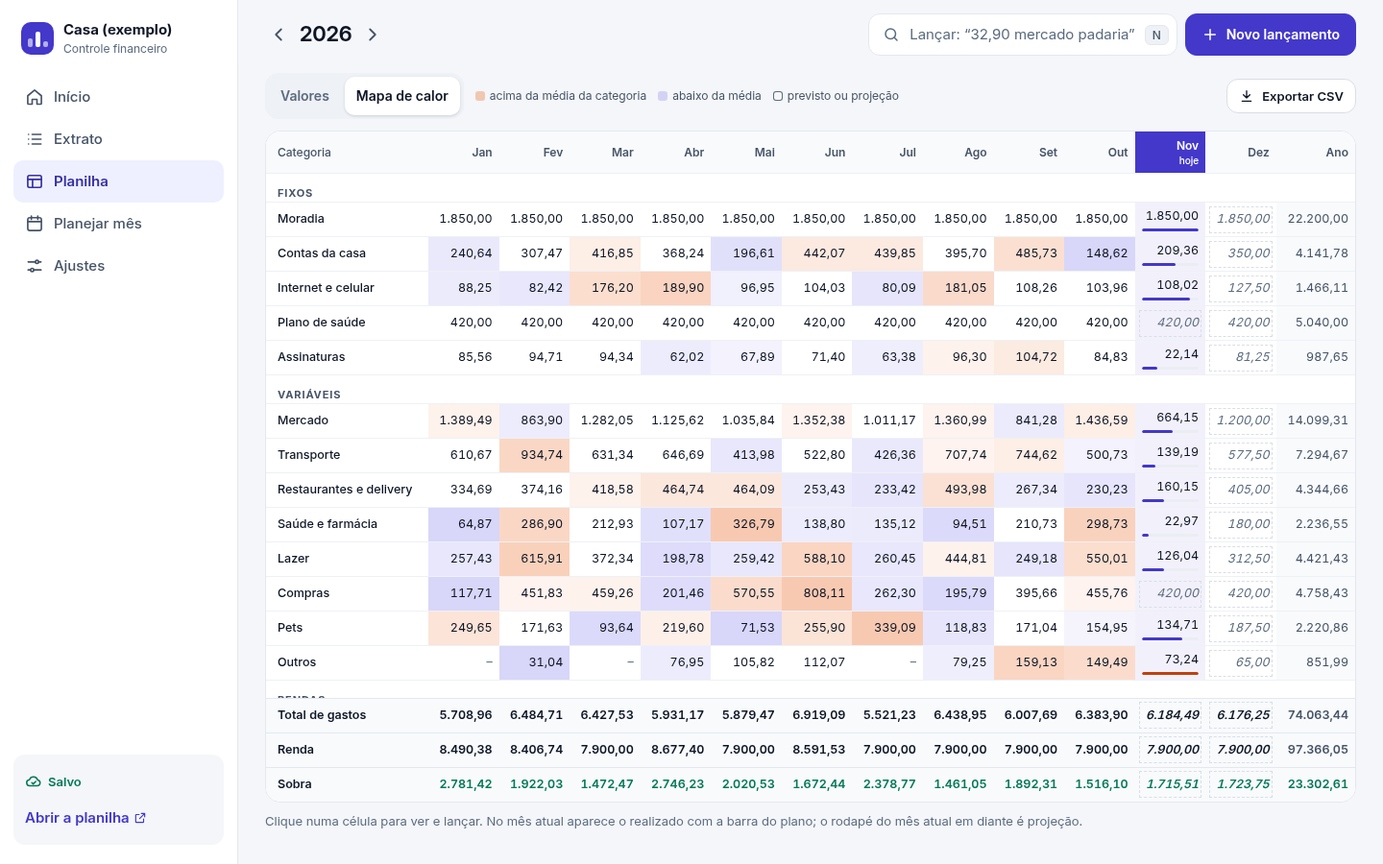
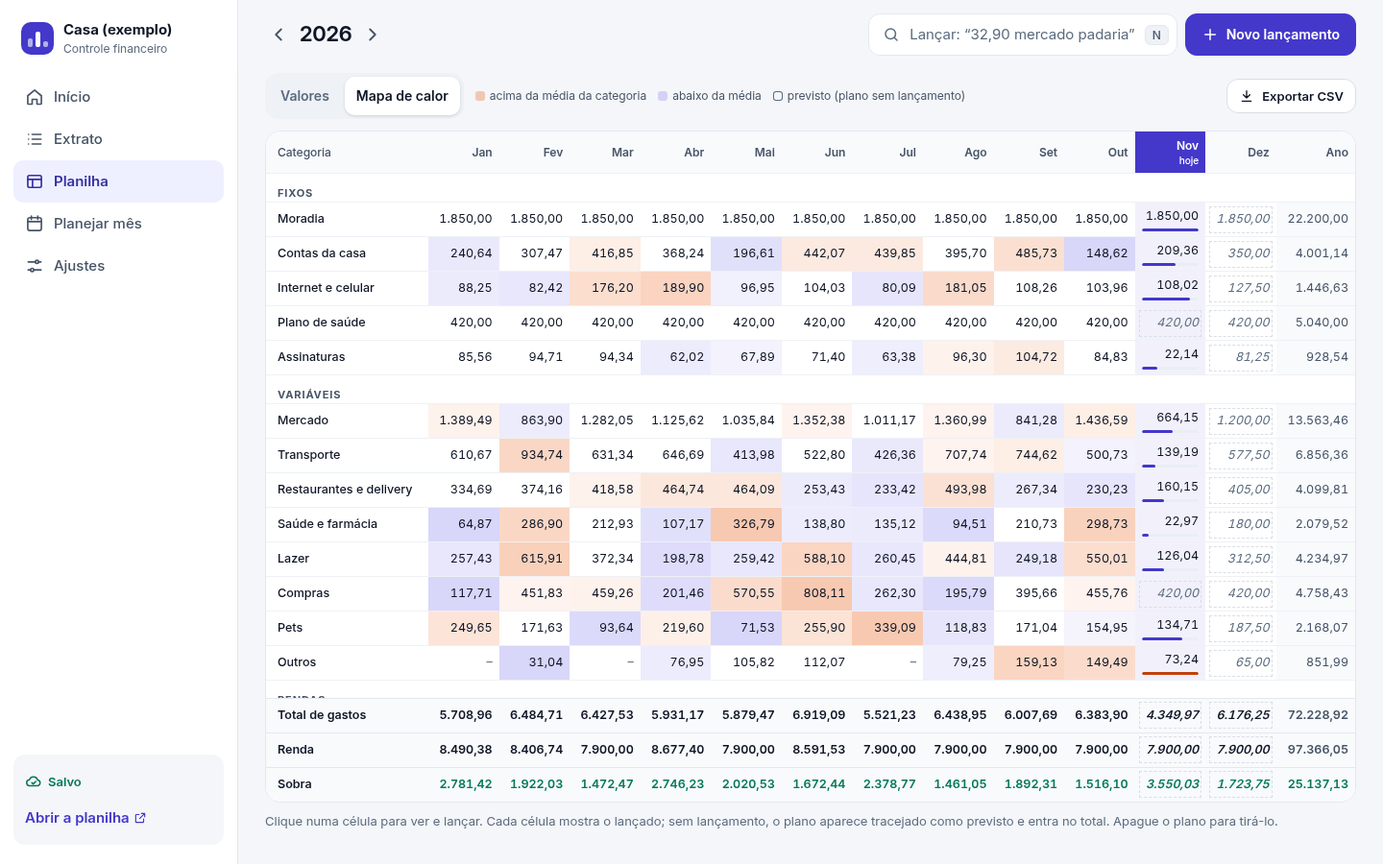
2.0.2: a sobra vale só o lançado e o plano gravado; média vira sugestão
No mês atual cada categoria entrava pelo maior valor entre lançado e plano,
e categoria sem plano ganhava a média dos 3 meses anteriores, que não dava
para apagar. Agora vale a regra da v1 em todos os meses: o lançado; sem
lançamento, o plano gravado. Apagar lançamento ou plano muda a sobra na hora.

- Início: Previsto a lançar e Sobra do mês no lugar de projeção.
- Teste de navegador novo para a sobra.
- Guias, changelog e prints atualizados.

diff --git a/src/App.html b/src/App.html
@@ -240,7 +240,7 @@ async function verificarNovidades(forcar = false) {
 }
 
 /* =====================================================================
-   6. Cálculos: realizado, plano, projeção e ritmo
+   6. Cálculos: realizado, plano, previsto e ritmo
    ===================================================================== */
 let memo = { v: -1 };
 function M() { if (memo.v !== S.versao) memo = { v: S.versao, anos: new Map(), inicio: null, uso: null }; return memo; }
@@ -271,40 +271,26 @@ function inicioDados() {
   m.inicio = min;
   return min;
 }
-/** Mês fechado: o realizado; se nada foi lançado, o plano (igual à versão 1). */
+/** O realizado; se nada foi lançado, o plano (igual à versão 1). */
 function valorFechado(cid, ano, mes) { const c = celReal(cid, ano, mes); return c.qtd ? c.soma : planoExp(cid, ano, mes); }
+/** Média dos 3 meses anteriores. Só sugestão: nunca entra nas contas sem você gravar como plano. */
 function media3(cid, ano, mes) {
   const alvo = chaveMes(ano, mes); const ini = inicioDados();
   let soma = 0; let n = 0;
   for (let k = alvo - 1; k >= alvo - 3 && k >= ini; k--) { const d = deChave(k); soma += valorFechado(cid, d.ano, d.mes); n++; }
   return n ? arred(soma / n) : 0;
 }
-/** Plano do mês: o definido; no mês corrente, sem plano definido, a média dos 3 meses anteriores. */
-function plano(cid, ano, mes) {
-  const e = planoExp(cid, ano, mes);
-  if (e) return { valor: e, implicito: false };
-  if (fase(ano, mes) === 'atual') { const m = media3(cid, ano, mes); return { valor: m, implicito: m > 0 }; }
-  return { valor: 0, implicito: false };
-}
 /**
- * Valor de uma categoria num mês.
- *  passado: realizado (ou o plano, se nada foi lançado — marcado como previsto)
- *  atual:   projeção = o maior entre o realizado e o plano
- *  futuro:  plano
+ * Valor de uma categoria num mês, com a mesma regra em todos os meses (a da versão 1):
+ *  - teve lançamento: vale o que foi lançado;
+ *  - não teve: vale o plano que você gravou, marcado como previsto.
+ * Nada é calculado por conta própria. Apagar um lançamento muda o total na hora, e
+ * apagar o plano tira o previsto das contas.
  */
 function celula(cid, ano, mes) {
-  const f = fase(ano, mes); const c = celReal(cid, ano, mes);
-  if (f === 'passado') {
-    if (c.qtd) return { valor: c.soma, real: c.soma, qtd: c.qtd, plano: planoExp(cid, ano, mes), tipo: 'real', fase: f };
-    const p = planoExp(cid, ano, mes);
-    return { valor: p, real: 0, qtd: 0, plano: p, tipo: p ? 'previsto' : 'vazio', fase: f };
-  }
-  if (f === 'futuro') {
-    const p = planoExp(cid, ano, mes);
-    return { valor: Math.max(c.soma, p), real: c.soma, qtd: c.qtd, plano: p, tipo: c.qtd ? 'parcial' : p ? 'previsto' : 'vazio', fase: f };
-  }
-  const p = plano(cid, ano, mes);
-  return { valor: Math.max(c.soma, p.valor), real: c.soma, qtd: c.qtd, plano: p.valor, implicito: p.implicito, tipo: c.qtd ? 'parcial' : p.valor ? 'previsto' : 'vazio', fase: f };
+  const f = fase(ano, mes); const c = celReal(cid, ano, mes); const p = planoExp(cid, ano, mes);
+  if (c.qtd) return { valor: c.soma, real: c.soma, qtd: c.qtd, plano: p, tipo: 'real', fase: f };
+  return { valor: p, real: 0, qtd: 0, plano: p, tipo: p ? 'previsto' : 'vazio', fase: f };
 }
 function resumo(ano, mes) {
   const f = fase(ano, mes); const h = hoje();
@@ -317,7 +303,8 @@ function resumo(ano, mes) {
     if (c.grupo === 'renda') { renda += v.valor; rendaReal += v.real; }
     else {
       gastos += v.valor; gastoReal += v.real; planoGastos += v.plano || 0;
-      if (c.grupo === 'fixo' && f === 'atual') aVencer += Math.max(0, (v.plano || 0) - v.real);
+      // A vencer = conta fixa com plano e ainda sem lançamento: o mesmo valor que entra na sobra.
+      if (c.grupo === 'fixo' && f === 'atual' && v.tipo === 'previsto') aVencer += v.plano;
     }
   }
   const dias = diasNoMes(ano, mes);
@@ -325,7 +312,7 @@ function resumo(ano, mes) {
   const livre = renda - gastoReal - aVencer;
   return {
     fase: f, qtd, dias, restantes, porCat,
-    renda: arred(renda), gastos: arred(gastos), sobra: arred(renda - gastos),
+    renda: arred(renda), gastos: arred(gastos), sobra: arred(renda - gastos), previsto: arred(gastos - gastoReal),
     rendaReal: arred(rendaReal), gastoReal: arred(gastoReal), aVencer: arred(aVencer), planoGastos: arred(planoGastos),
     livre: arred(livre), porDia: restantes ? arred(livre / restantes) : 0,
     ritmo: f === 'atual' ? h.dia / dias : f === 'passado' ? 1 : 0,
@@ -421,17 +408,18 @@ function notaCategoria(c, v, est) {
   if (c.grupo === 'renda') {
     if (v.real > 0 && v.real >= v.plano) return 'Recebido';
     if (v.real > 0) return `Recebido ${moeda(v.real)} de ${moeda(v.plano)}`;
-    return v.plano ? `Previsto ${moeda(v.plano)}${v.implicito ? ' (média)' : ''}` : 'Nada recebido';
+    return v.plano ? `Previsto ${moeda(v.plano)}` : 'Nada recebido';
   }
   if (!v.plano) return v.real ? 'Sem plano' : 'Nada lançado';
   if (est === 'acima') return `${moeda(v.real - v.plano)} acima do plano`;
   if (c.grupo === 'fixo') {
     if (v.real >= v.plano) return 'Pago';
-    if (!v.real) return `A vencer · previsto ${moeda(v.plano)}${v.implicito ? ' (média)' : ''}`;
+    if (!v.real) return `A vencer · previsto ${moeda(v.plano)}`;
     return `Faltam ${moeda(v.plano - v.real)}`;
   }
+  if (!v.real) return `Previsto ${moeda(v.plano)} · nada lançado ainda`;
   const resta = moeda(v.plano - v.real);
-  return est === 'atencao' ? `Acima do ritmo · restam ${resta}` : `Restam ${resta}${v.implicito ? ' · plano pela média' : ''}`;
+  return est === 'atencao' ? `Acima do ritmo · restam ${resta}` : `Restam ${resta}`;
 }
 function linhaCat(c, v, ritmo, ano, mes, extra = false) {
   const est = estadoCategoria(c, v, ritmo);
@@ -566,8 +554,8 @@ function cartaoHeroi(r) {
         + `<div class="legenda-barra"><span>${Math.round(pct)}% do plano usado</span><span>hoje: ${Math.round(r.ritmo * 100)}% do mês</span></div></div>`
       : '<p class="sub" style="margin-top:12px">Defina um plano em <button type="button" class="link" data-acao="planejar">Mês › Planejar</button> para acompanhar o ritmo dos gastos.</p>';
     const negativo = r.sobra < 0;
-    const nota = `<div class="nota ${negativo ? 'nota-aviso' : 'nota-ok'}">${ic(negativo ? 'alerta' : 'check', 18)}<p><strong>No ritmo do plano, ${m} fecha ${negativo ? 'em ' + moeda(r.sobra) : 'com sobra de ' + moeda(r.sobra)}.</strong>`
-      + (r.aVencer > 0 ? ` Ainda há ${moeda(r.aVencer)} em contas fixas a vencer.` : '') + '</p></div>';
+    const nota = `<div class="nota ${negativo ? 'nota-aviso' : 'nota-ok'}">${ic(negativo ? 'alerta' : 'check', 18)}<p><strong>${Mes(S.mes)} fecha ${negativo ? 'em ' + moeda(r.sobra) : 'com sobra de ' + moeda(r.sobra)}.</strong>`
+      + (r.previsto > 0 ? ` Conta o que já foi lançado e ${moeda(r.previsto)} de planos ainda sem lançamento; apagar o plano tira o previsto.` : ' Conta só o que já foi lançado.') + '</p></div>';
     return `<section class="cartao g-heroi heroi" aria-labelledby="h-livre"><h2 id="h-livre" class="rotulo">Livre para gastar até ${r.dias}/${dois(S.mes)}</h2>`
       + `<p class="numero-heroi${r.livre < 0 ? ' negativo' : ''}">${moeda(r.livre)}</p><p class="sub">${sub}</p>${ritmo}${nota}</section>`;
   }
@@ -590,8 +578,8 @@ function cartaoKpis(r) {
     tiles = [
       ['Renda do mês', moeda(r.renda), r.rendaReal > 0 && r.rendaReal >= r.renda ? 'recebida' : r.rendaReal > 0 ? `${moeda(r.rendaReal)} recebidos` : 'prevista', 'ok'],
       ['Gasto até hoje', moeda(r.gastoReal), `${r.qtd} lançamento${r.qtd === 1 ? '' : 's'}`, ''],
-      ['Projeção de gastos', moeda(r.gastos), r.planoGastos ? `plano de ${moeda(r.planoGastos)}` : 'sem plano definido', ''],
-      ['Fechamento previsto', moeda(r.sobra), `${Mes(ant.mes)} fechou em ${moeda(rAnt.sobra)}`, r.sobra < 0 ? 'acima' : 'ok'],
+      ['Previsto a lançar', moeda(r.previsto), r.previsto ? 'planos ainda sem lançamento' : 'nenhum plano pendente', ''],
+      ['Sobra do mês', moeda(r.sobra), `${Mes(ant.mes)} fechou em ${moeda(rAnt.sobra)}`, r.sobra < 0 ? 'acima' : 'ok'],
     ];
   } else if (r.fase === 'passado') {
     tiles = [
@@ -614,7 +602,7 @@ function cartaoAVencer(r) {
   const itens = r.porCat.filter(({ c, v }) => c.grupo === 'fixo' && v.plano > 0 && v.real === 0);
   if (!itens.length) return '';
   return `<section class="cartao" aria-labelledby="h-vencer"><div class="cartao-topo"><h2 id="h-vencer">A vencer este mês</h2></div>`
-    + itens.map(({ c, v }) => `<div class="item-vencer">${mono(c, true)}<div class="iv-txt"><strong>${esc(c.nome)}</strong><span>previsto ${moeda(v.plano)}${v.implicito ? ' (média)' : ''}</span></div>`
+    + itens.map(({ c, v }) => `<div class="item-vencer">${mono(c, true)}<div class="iv-txt"><strong>${esc(c.nome)}</strong><span>previsto ${moeda(v.plano)}</span></div>`
       + `<button type="button" class="botao pequeno" data-acao="confirmar" data-cat="${esc(c.id)}" data-ano="${S.ano}" data-mes="${S.mes}" data-foco="conf-${esc(c.id)}">Confirmar</button></div>`).join('')
     + '</section>';
 }
@@ -691,12 +679,12 @@ function cartaoAno() {
   const barras = meses.map((m) => {
     const hPos = m.sobra > 0 && mp ? Math.max(2, Math.round((m.sobra / mp) * hp)) : 0;
     const hNeg = m.sobra < 0 && mn ? Math.max(2, Math.round((-m.sobra / mn) * hn)) : 0;
-    const extra = m.fase === 'atual' ? ' (projeção)' : m.fase === 'futuro' ? ' (previsto)' : '';
+    const extra = m.fase === 'atual' ? ' (lançado até agora + planos sem lançamento)' : m.fase === 'futuro' ? ' (previsto)' : '';
     return `<button type="button" class="ga-mes ${m.fase}${m.mes === S.mes ? ' sel' : ''}" data-acao="ir-mes" data-mes="${m.mes}" data-foco="ga-${m.mes}" title="${esc(Mes(m.mes) + ': ' + moeda(m.sobra) + extra)}" aria-label="${esc(Mes(m.mes) + ': ' + moeda(m.sobra) + extra)}">`
       + `<span class="ga-pos"><i style="height:${hPos}px"></i></span><span class="ga-neg"><i style="height:${hNeg}px"></i></span><span class="ga-rot">${MesC(m.mes)}</span></button>`;
   }).join('');
   return `<section class="cartao g-ano" aria-labelledby="h-ano"><div class="cartao-topo"><h2 id="h-ano">Sobra mês a mês · ${S.ano}</h2></div>`
-    + '<div class="legenda"><span><i style="background:var(--acento)"></i>sobrou</span><span><i style="background:var(--acima)"></i>faltou</span><span><i style="box-shadow:inset 0 0 0 1.5px var(--tinta-3)"></i>projeção</span></div>'
+    + '<div class="legenda"><span><i style="background:var(--acento)"></i>sobrou</span><span><i style="background:var(--acima)"></i>faltou</span><span><i style="box-shadow:inset 0 0 0 1.5px var(--tinta-3)"></i>mês atual e futuros</span></div>'
     + `<figure class="grafico-ano"><div class="ga-barras" style="--hp:${hp}px;--hn:${hn}px">${barras}</div>`
     + `<figcaption class="sub" style="margin-top:8px">Acumulado em ${S.ano}, contando o previsto: <strong class="${acumulado < 0 ? 'txt-acima' : 'txt-ok'}">${moeda(acumulado)}</strong></figcaption></figure></section>`;
 }
@@ -768,7 +756,7 @@ function telaMes() {
 function kpisMes(r) {
   if (S.modoMes === 'planejar') {
     let renda = 0; let gastos = 0;
-    for (const c of cats()) { const p = plano(c.id, S.ano, S.mes).valor; if (c.grupo === 'renda') renda += p; else gastos += p; }
+    for (const c of cats()) { const p = planoExp(c.id, S.ano, S.mes); if (c.grupo === 'renda') renda += p; else gastos += p; }
     const sobra = renda - gastos;
     return `<div class="kpis-mes"><div><span>Renda planejada</span><strong class="txt-ok">${num(renda)}</strong></div><div><span>Gastos planejados</span><strong>${num(gastos)}</strong></div>`
       + `<div class="${sobra < 0 ? 'alerta' : ''}"><span>Sobra planejada</span><strong>${num(sobra)}</strong></div></div>`;
@@ -776,7 +764,7 @@ function kpisMes(r) {
   const atual = r.fase === 'atual';
   return `<div class="kpis-mes"><div><span>Renda</span><strong class="txt-ok">${num(r.renda)}</strong></div>`
     + `<div><span>${atual ? 'Gasto até hoje' : r.fase === 'futuro' ? 'Gastos previstos' : 'Gastos'}</span><strong>${num(atual ? r.gastoReal : r.gastos)}</strong></div>`
-    + `<div class="${r.sobra < 0 ? 'alerta' : ''}"><span>${atual ? 'Fecha em' : r.fase === 'futuro' ? 'Sobra prevista' : 'Sobra'}</span><strong>${num(r.sobra)}</strong></div></div>`;
+    + `<div class="${r.sobra < 0 ? 'alerta' : ''}"><span>${atual ? 'Sobra do mês' : r.fase === 'futuro' ? 'Sobra prevista' : 'Sobra'}</span><strong>${num(r.sobra)}</strong></div></div>`;
 }
 function telaAcompanhar(r) {
   const blocos = ORDEM_GRUPOS.map((g) => {
@@ -801,7 +789,7 @@ function telaPlanejar() {
         + `<input class="entrada valor" id="pl-${esc(c.id)}" inputmode="decimal" autocomplete="off" data-mudar="plano" data-cat="${esc(c.id)}" data-foco="pl-${esc(c.id)}" value="${e ? num(e) : ''}" placeholder="${med ? num(med) : '0,00'}"></div>`;
     }).join('')}</div></section>`;
   }).join('');
-  return `<p class="sub" style="margin-top:12px">O plano guia a projeção, o ritmo e o “livre para gastar”. Campo vazio no mês atual usa a média dos últimos 3 meses.</p>`
+  return `<p class="sub" style="margin-top:12px">Enquanto uma categoria não tem lançamento no mês, o plano entra nas contas como previsto. Campo vazio = sem previsto. A média dos 3 meses aparece só como sugestão.</p>`
     + `<div class="acoes"><button type="button" class="botao" data-acao="plano-copiar" data-foco="plano-copiar">Copiar de ${MESES[ant.mes - 1]}</button>`
     + '<button type="button" class="botao" data-acao="plano-media" data-foco="plano-media">Usar as médias</button>'
     + '<button type="button" class="botao fantasma" data-acao="plano-limpar" data-foco="plano-limpar">Limpar o mês</button></div>' + blocos;
@@ -854,7 +842,7 @@ function telaPlanilha() {
     const cor = (v) => (sinal ? (v < 0 ? ' txt-acima' : ' txt-ok') : '');
     return `<tr><th scope="row">${nome}</th>${serie.map((v, i) => {
       const f = fase(ano, i + 1);
-      return `<td class="${f !== 'passado' ? 'proj' : ''}${cor(v)}" title="${esc(nome + ' · ' + Mes(i + 1) + (f === 'atual' ? ' (projeção)' : f === 'futuro' ? ' (previsto)' : ''))}">${num(v)}</td>`;
+      return `<td class="${f !== 'passado' ? 'proj' : ''}${cor(v)}" title="${esc(nome + ' · ' + Mes(i + 1) + (f === 'atual' ? ' (lançado + planos sem lançamento)' : f === 'futuro' ? ' (previsto)' : ''))}">${num(v)}</td>`;
     }).join('')}<td class="total${cor(tot)}">${num(tot)}</td></tr>`;
   };
   const sobra = totR.map((v, i) => v - totG[i]);
@@ -863,12 +851,12 @@ function telaPlanilha() {
   if (!cats().length) return vazio('Crie categorias em Ajustes para ver a planilha.', false);
   return '<div class="planilha-ferramentas">'
     + `<div class="segmentado" role="group" aria-label="Visualização">${seg(false, 'Valores')}${seg(true, 'Mapa de calor')}</div>`
-    + '<div class="legenda"><span><i style="background:rgba(234,88,12,.3)"></i>acima da média da categoria</span><span><i style="background:rgba(79,70,229,.2)"></i>abaixo da média</span><span><i style="box-shadow:inset 0 0 0 1px var(--tinta-3)"></i>previsto ou projeção</span></div>'
+    + '<div class="legenda"><span><i style="background:rgba(234,88,12,.3)"></i>acima da média da categoria</span><span><i style="background:rgba(79,70,229,.2)"></i>abaixo da média</span><span><i style="box-shadow:inset 0 0 0 1px var(--tinta-3)"></i>previsto (plano sem lançamento)</span></div>'
     + `<button type="button" class="botao pequeno" data-acao="exportar-csv" data-foco="exp-csv" style="margin-left:auto">${ic('baixar', 16)}Exportar CSV</button></div>`
     + `<div class="planilha-caixa"><table class="planilha"><caption class="sr">Planilha de ${ano}: categorias por mês. Use as setas para navegar e Enter para abrir.</caption>`
     + `<thead><tr><th scope="col" class="cat">Categoria</th>${cab}<th scope="col" class="total">Ano</th></tr></thead><tbody>${corpo}</tbody>`
     + `<tfoot>${rodape('Total de gastos', totG, false)}${rodape('Renda', totR, false)}${rodape('Sobra', sobra, true)}</tfoot></table></div>`
-    + '<p class="sub" style="margin-top:10px">Clique numa célula para ver e lançar. No mês atual aparece o realizado com a barra do plano; o rodapé do mês atual em diante é projeção.</p>';
+    + '<p class="sub" style="margin-top:10px">Clique numa célula para ver e lançar. Cada célula mostra o lançado; sem lançamento, o plano aparece tracejado como previsto e entra no total. Apague o plano para tirá-lo.</p>';
 }
 function posPlanilha() {
   if (!S.rolarPlanilha) return;
@@ -1217,7 +1205,7 @@ function abrirCategoria(cid, ano, mes) {
         const pct = v.plano > 0 ? (v.real / v.plano) * 100 : v.real > 0 ? 100 : 0;
         const conf = v.tipo === 'previsto' && v.fase !== 'futuro'
           ? `<div class="acoes"><button type="button" class="botao" data-f="confirmar">${ic('check', 18)}Confirmar ${moeda(v.plano)} como lançado</button></div>` : '';
-        $('#fc-resumo', el).innerHTML = `<div class="legenda-barra" style="margin-top:0"><span><strong style="font-size:16px;color:var(--tinta)">${moeda(v.real)}</strong> lançados</span><span>${v.plano ? 'plano ' + moeda(v.plano) + (v.implicito ? ' (média)' : '') : 'sem plano'}</span></div>`
+        $('#fc-resumo', el).innerHTML = `<div class="legenda-barra" style="margin-top:0"><span><strong style="font-size:16px;color:var(--tinta)">${moeda(v.real)}</strong> lançados</span><span>${v.plano ? 'plano ' + moeda(v.plano) : 'sem plano'}</span></div>`
           + barra({ pct, ritmo: v.fase === 'atual' && c.grupo === 'variavel' && v.plano ? resumo(ano, mes).ritmo : null, estado: est === 'acima' ? 'acima' : est === 'atencao' ? 'atencao' : 'ok', alta: true })
           + `<p class="lc-nota ${est === 'acima' ? 'txt-acima' : ''}" style="margin-top:6px">${esc(notaCategoria(c, v, est))}</p>${conf}`;
         const itens = celReal(cid, ano, mes).itens.slice().sort((a, b) => (a.dia ?? 99) - (b.dia ?? 99));
@@ -1228,7 +1216,7 @@ function abrirCategoria(cid, ano, mes) {
         if (document.activeElement !== inp) inp.value = planoExp(cid, ano, mes) ? num(planoExp(cid, ano, mes)) : '';
         const med = media3(cid, ano, mes);
         inp.placeholder = med ? num(med) : '0,00';
-        $('#fc-plano-dica', el).textContent = med ? `Média dos 3 meses anteriores: ${moeda(med)}.` : '';
+        $('#fc-plano-dica', el).textContent = (med ? `Sugestão: a média dos 3 meses anteriores é ${moeda(med)}. ` : '') + 'Campo vazio = sem previsto nas contas.';
       };
       const adicionar = () => {
         const msg = $('#fc-msg', el);

diff --git a/docs/USAR.md b/docs/USAR.md
@@ -44,9 +44,10 @@ Errou? Logo depois de salvar aparece **Desfazer**. Para corrigir depois, toque n
 ### Início
 
 - **Livre para gastar até o fim do mês:** quanto ainda dá para gastar sem fechar no vermelho, e quanto isso dá por dia.
-  A conta é: renda do mês − o que já foi gasto − contas fixas que ainda vão vencer.
+  A conta é: renda do mês − o que já foi gasto − contas fixas que ainda vão vencer (as que têm plano e nenhum lançamento).
 - **Barra de ritmo:** quanto do plano de gastos você já usou, comparado com quanto do mês já passou. Se no dia 10 você já gastou 60% do plano, a barra avisa.
-- **A vencer este mês:** contas fixas com plano e sem lançamento ainda. O botão **Confirmar** lança o valor previsto com a data de hoje.
+- **Números do mês:** renda, gasto até hoje, **previsto a lançar** (planos de categorias que ainda não tiveram lançamento) e a **sobra do mês**.
+- **A vencer este mês:** contas fixas com plano e sem lançamento ainda. O botão **Confirmar** lança o valor do plano com a data de hoje.
 - **Avisos:** categorias que passaram do plano ou que estão gastando rápido demais.
 
 ### Extrato
@@ -58,9 +59,9 @@ Todos os lançamentos, agrupados por dia, com busca (no computador: tecla `/`) e
 Cada categoria com o que foi gasto, o plano e o ritmo. É aqui que você **planeja**:
 
 - **Copiar de** (nome do mês anterior)**:** repete o plano do mês passado.
-- **Usar as médias:** preenche com a média dos últimos 3 meses.
+- **Usar as médias:** grava como plano a média dos últimos 3 meses. Só acontece se você tocar no botão.
 
-Categoria sem plano no mês atual usa automaticamente a média dos 3 meses anteriores.
+O app nunca inventa previsão: categoria sem plano conta só o que foi lançado. A média aparece como sugestão no campo, e apagar o campo tira o previsto das contas.
 
 ### Planilha (melhor no computador)
 
@@ -68,8 +69,8 @@ O ano inteiro numa tabela: categorias nas linhas, meses nas colunas.
 
 - As cores mostram onde cada categoria fugiu da própria média.
 - Clique numa célula para ver os lançamentos dela e lançar direto ali. Use as setas do teclado para andar e `Enter` para abrir.
-- Os meses passados mostram o que foi lançado. Numa categoria sem lançamento, vale o plano, marcado como previsto.
-- O mês atual mostra uma projeção: o maior valor entre o que já foi gasto e o plano. Assim o mês não parece melhor do que vai ser só porque ainda não acabou.
+- Em todos os meses vale a mesma regra da versão 1: a célula mostra o que foi lançado. Numa categoria sem lançamento, vale o plano, marcado como previsto (tracejado). Os totais e a sobra somam exatamente o que aparece nas células.
+- Para tirar um previsto da soma, apague o plano daquele mês.
 
 ### Ajustes
 

diff --git a/README.md b/README.md
@@ -16,7 +16,7 @@ Controle financeiro pessoal que roda no **Google Sheets + Apps Script**: rápido
 
 - **Seus dados, sua planilha.** Tudo fica numa planilha do seu Google Drive, em abas comuns que dá para abrir e ler. Sem servidor de terceiros, sem mensalidade, sem anúncio e sem senha de banco.
 - **Lançar em três toques.** O botão **+** fica sempre à mão. O valor se digita como no app do banco (6430 vira R$ 64,30), as categorias mais usadas vêm primeiro e a data já começa em "hoje".
-- **Previsão honesta.** "Livre para gastar até o fim do mês", ritmo do mês e uma projeção que não fica otimista só porque o mês ainda não acabou.
+- **Previsão honesta.** "Livre para gastar até o fim do mês" e ritmo do mês. Só entra na conta o que você lançou ou planejou: o app não inventa previsão, e apagar um plano tira o previsto da soma.
 - **Planilha no computador.** O ano inteiro numa matriz com mapa de calor (onde cada categoria fugiu da própria média), atalhos de teclado e lançamento direto na célula.
 - **Não perde nada.** Celular e computador podem ser usados ao mesmo tempo sem um apagar o outro. Sem conexão, o app guarda no aparelho e envia depois. Toda exclusão tem "Desfazer".
 - **Acessível.** Contraste AA nos temas claro e escuro, alvos de toque de 44 px e navegação completa pelo teclado.
@@ -25,7 +25,7 @@ Controle financeiro pessoal que roda no **Google Sheets + Apps Script**: rápido
 
 | Planilha com mapa de calor | Modo escuro |
 |---|---|
-| ![Planilha do ano com mapa de calor e projeção do mês atual](docs/img/computador-planilha.png) | ![Início no computador em modo escuro](docs/img/computador-escuro.png) |
+| ![Planilha do ano com mapa de calor e o mês atual com o lançado e o previsto](docs/img/computador-planilha.png) | ![Início no computador em modo escuro](docs/img/computador-escuro.png) |
 
 | Extrato | Primeiro acesso |
 |---|---|

diff --git a/docs/ARQUITETURA.md b/docs/ARQUITETURA.md
@@ -52,13 +52,16 @@ A gravação de cada aba é uma escrita única. As linhas que sobram são limpas
 
 Para uma categoria num mês:
 
-| Mês | Valor |
+| Situação | Valor (qualquer mês: passado, corrente ou futuro) |
 |---|---|
-| já passou | o lançado; sem lançamento, o plano (marcado como "previsto") |
-| corrente | o maior entre o lançado e o plano (sem plano: média dos 3 meses anteriores) |
-| futuro | o plano |
+| teve lançamento | a soma do lançado |
+| sem lançamento, com plano | o plano, marcado como "previsto" |
+| sem lançamento, sem plano | zero |
 
-- **Livre para gastar** = renda do mês − gasto até hoje − contas fixas ainda a vencer (plano − lançado, nos fixos).
+É a regra da versão 1. Nada é estimado por conta própria: a média dos 3 meses anteriores só aparece como sugestão e só vira plano quando a pessoa grava ("Usar as médias"). Assim, apagar um lançamento ou um plano muda o total na hora.
+
+- **Sobra do mês** = renda − gastos, somando o valor de cada categoria pela tabela acima. **Previsto a lançar** é a parte dos gastos que vem de planos sem lançamento.
+- **Livre para gastar** = renda do mês − gasto até hoje − contas fixas ainda a vencer (fixos com plano e sem lançamento).
 - **Ritmo:** a marca nas barras é o dia de hoje sobre os dias do mês. Uma categoria variável fica "acima do ritmo" quando já usou mais de 12 pontos percentuais além dele.
 - **Mapa de calor:** cada mês fechado é comparado com a média dos meses fechados da própria categoria no ano (a partir de 3 meses). Acima de 15% fica laranja; abaixo de −15%, azul.
 

diff --git a/CHANGELOG.md b/CHANGELOG.md
@@ -1,5 +1,12 @@
 # Changelog
 
+## 2.0.2 — 2026-11-18
+
+### Corrigido
+- **A sobra não reagia ao que você lançava ou apagava.** No mês atual, cada categoria entrava na conta pelo maior valor entre o lançado e o plano, e categoria sem plano ganhava a média dos 3 meses anteriores, que não dava para apagar. Agora vale a regra da versão 1 em todos os meses: o lançado; sem lançamento, o plano que você gravou. Apagar um lançamento ou um plano muda a sobra na hora.
+- A média dos 3 meses virou só sugestão (no campo do plano e no botão "Usar as médias"). O botão "Confirmar" não lança mais média como se fosse gasto.
+- Início: "Projeção de gastos" e "Fechamento previsto" viraram **Previsto a lançar** e **Sobra do mês**, e o texto diz quanto da sobra vem de planos ainda sem lançamento.
+
 ## 2.0.1 — 2026-11-18
 
 ### Corrigido

diff --git a/docs/ATUALIZAR.md b/docs/ATUALIZAR.md
@@ -11,8 +11,7 @@ A versão 2 lê **as mesmas quatro abas, com as mesmas colunas** da versão 1 (`
 ## O que muda
 
 - O **titular** vira o **nome do controle** (dá para trocar em Ajustes).
-- O **orçamento** passa a se chamar **plano**. No mês corrente, ele guia o "livre para gastar", o ritmo e a projeção. Categoria sem plano no mês corrente usa a média dos 3 meses anteriores.
-- O **mês corrente** não fica mais otimista: cada categoria conta o maior valor entre o que já foi gasto e o planejado.
+- O **orçamento** passa a se chamar **plano**. A regra das contas é a mesma da versão 1 em todos os meses: vale o que foi lançado e, numa categoria sem lançamento, o plano (previsto).
 - Editar a planilha à mão passa a ser seguro: o app grava operações sobre o que está na planilha e percebe as edições.
 
 ## Passo a passo
